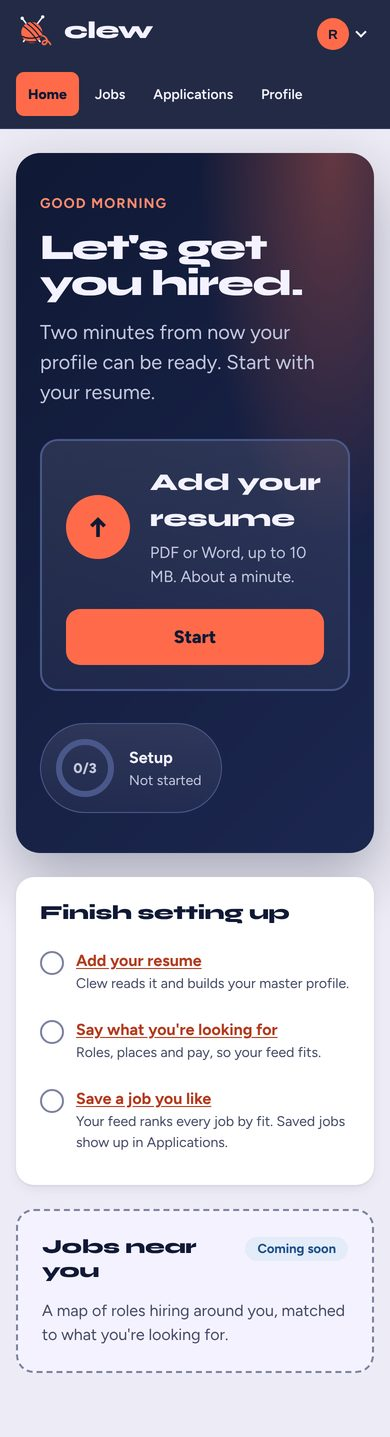
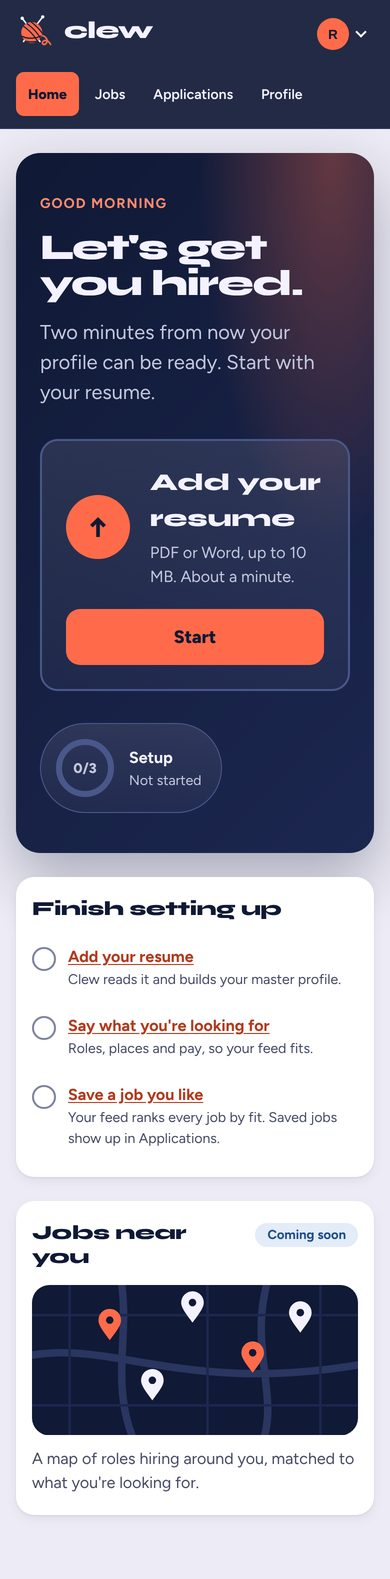
Home step 3: polish (motion, count-up, brand art, phone pass, benchmark notes)
Claude-Session: https://claude.ai/code/session_0174fyUSi87p2NdewUzstscb

diff --git a/apps/web/src/home/HomeDashboard.tsx b/apps/web/src/home/HomeDashboard.tsx
@@ -1,3 +1,4 @@
+import type { CSSProperties } from "react";
 import { Link } from "react-router";
 
 import { COLUMNS } from "../applications/model";
@@ -13,6 +14,8 @@ import {
   type FeedJob,
   type Progress,
 } from "./model";
+import { MapArt, YarnArt } from "./BrandArt";
+import { useCountUp } from "./useCountUp";
 import type { Dashboard } from "./useDashboard";
 
 /** A ring that shows how many setup steps are done. The text carries the meaning. */
@@ -20,7 +23,8 @@ function ProgressRing({ done, total }: { done: number; total: number }) {
   const radius = 26;
   const circumference = 2 * Math.PI * radius;
   return (
-    <div className="ring">
+    // --ring-full lets the fill animate in from empty (CSS; off under reduced motion).
+    <div className="ring" style={{ "--ring-full": `${circumference}` } as CSSProperties}>
       <svg width="64" height="64" viewBox="0 0 64 64" aria-hidden="true">
         <circle cx="32" cy="32" r={radius} className="ring-track" />
         <circle
@@ -97,10 +101,16 @@ function Hero({ data, progress, hour }: { data: Dashboard; progress: Progress; h
 }
 
 function Tile({ value, label, to }: { value: number; label: string; to: string }) {
+  const shown = useCountUp(value);
   return (
-    <Link to={to} className="stat-tile">
-      <span className="stat-value">{value}</span>
-      <span className="stat-label">{label}</span>
+    // The counting number is for the eye; screen readers get the final value from the label.
+    <Link to={to} className="stat-tile" aria-label={`${value} ${label}`}>
+      <span className="stat-value" aria-hidden="true">
+        {shown}
+      </span>
+      <span className="stat-label" aria-hidden="true">
+        {label}
+      </span>
     </Link>
   );
 }
@@ -147,12 +157,17 @@ function TopMatches({ jobs }: { jobs: NonNullable<Dashboard["jobs"]> }) {
     <section className="home-card" aria-labelledby="matches-title">
       <div className="home-card-head">
         <h2 id="matches-title">Top matches</h2>
-        <Link to="/jobs" className="home-card-link">
-          See all {jobs.total}
-        </Link>
+        {jobs.total > 0 && (
+          <Link to="/jobs" className="home-card-link">
+            See all {jobs.total}
+          </Link>
+        )}
       </div>
       {jobs.items.length === 0 ? (
-        <p className="home-empty">No matches yet. Jobs are fetched regularly, so check back soon.</p>
+        <div className="home-empty-art">
+          <YarnArt />
+          <p className="home-empty">No matches yet. New jobs come in every hour, so check back soon.</p>
+        </div>
       ) : (
         <ul className="match-list">
           {jobs.items.map((job) => (
@@ -208,7 +223,10 @@ function Pipeline({ apps }: { apps: NonNullable<Dashboard["apps"]> }) {
         </Link>
       </div>
       {total === 0 ? (
-        <p className="home-empty">Save a job from your feed and it shows up here.</p>
+        <div className="home-empty-art">
+          <YarnArt />
+          <p className="home-empty">Save a job from your feed and it shows up here.</p>
+        </div>
       ) : (
         <ul className="pipe-list">
           {COLUMNS.map((col) => (
@@ -234,6 +252,7 @@ function MapTeaser() {
         <h2 id="map-title">Jobs near you</h2>
         <span className="pill-soon">Coming soon</span>
       </div>
+      <MapArt />
       <p className="home-empty">
         A map of roles hiring around you, matched to what you're looking for.
       </p>

diff --git a/apps/web/src/styles.css b/apps/web/src/styles.css
@@ -1949,6 +1949,23 @@ input:focus-visible + .upload-choose,
   color: var(--clew-text-link);
   font-weight: var(--clew-font-weight-bold);
   font-size: var(--clew-font-size-sm);
+  white-space: nowrap;
+}
+
+/* Small phones: tighter cards and smaller card titles, so a title and its link share a line. */
+@media (max-width: 30rem) {
+  .home-card {
+    padding: var(--clew-space-5) var(--clew-space-4);
+  }
+
+  .home-card-head h2 {
+    font-size: var(--clew-font-size-xl);
+  }
+
+  .match-row {
+    gap: var(--clew-space-3);
+    padding: var(--clew-space-3) var(--clew-space-1);
+  }
 }
 
 .home-empty,
@@ -1999,6 +2016,60 @@ input:focus-visible + .upload-choose,
 
 .match-arrow {
   color: var(--clew-text-secondary);
+  transition: transform var(--clew-motion-duration-base) var(--clew-motion-easing);
+}
+
+.match-row:hover .match-arrow,
+.match-row:focus-visible .match-arrow {
+  transform: translateX(4px);
+  color: var(--clew-text-accent);
+}
+
+/* --- Home motion. The global reduced-motion rule in base.css switches all of it off. --- */
+
+@keyframes home-rise {
+  from {
+    opacity: 0;
+    transform: translateY(12px);
+  }
+}
+
+.home-grid > :not(.home-columns),
+.home-columns .home-card {
+  animation: home-rise 480ms var(--clew-motion-easing) both;
+}
+
+.home-grid > :nth-child(2) {
+  animation-delay: 60ms;
+}
+
+.home-columns .home-col:first-child .home-card {
+  animation-delay: 120ms;
+}
+
+.home-columns .home-col:last-child .home-card {
+  animation-delay: 180ms;
+}
+
+@keyframes ring-in {
+  from {
+    stroke-dashoffset: var(--ring-full);
+  }
+}
+
+.ring-fill {
+  animation: ring-in 900ms var(--clew-motion-easing) 200ms both;
+}
+
+@keyframes bar-in {
+  from {
+    transform: scaleX(0);
+  }
+}
+
+.pipe-bar > span {
+  transform-origin: left;
+  animation: bar-in 700ms var(--clew-motion-easing) 240ms both;
 }
 
 .check-list li {
@@ -2076,9 +2147,24 @@ input:focus-visible + .upload-choose,
 }
 
 .home-map-teaser {
-  background: var(--clew-bg-subtle);
-  border: 2px dashed var(--clew-border-control);
-  box-shadow: none;
+  background: var(--clew-bg-surface);
+}
+
+.map-art {
+  display: block;
+  width: 100%;
+  height: auto;
+  margin-bottom: var(--clew-space-3);
+}
+
+.home-empty-art {
+  display: flex;
+  align-items: center;
+  gap: var(--clew-space-4);
+}
+
+.brand-art {
+  flex: none;
 }
 
 .pill-soon {

diff --git a/apps/web/src/home/BrandArt.tsx b/apps/web/src/home/BrandArt.tsx
@@ -1,0 +1,57 @@
+/** Small decorative drawings in the Clew style. All are hidden from screen readers. */
+
+/** A coral yarn ball with a loose curly thread, for empty states. */
+export function YarnArt({ size = 72 }: { size?: number }) {
+  return (
+    <svg className="brand-art" width={size} height={size} viewBox="0 0 72 72" aria-hidden="true">
+      <circle cx="30" cy="34" r="20" fill="var(--clew-color-coral-500)" />
+      <g fill="none" stroke="var(--clew-color-coral-700)" strokeWidth="2" strokeLinecap="round">
+        <path d="M14 26c8 4 22 4 32-4" />
+        <path d="M12 36c10 6 26 6 36-2" />
+        <path d="M16 46c8 4 20 4 28-2" />
+        <path d="M24 15c-4 10-4 28 2 38" />
+      </g>
+      <path
+        d="M49 42c6 2 10 7 8 12s-8 4-8 0 6-6 10-4 6 6 5 10"
+        fill="none"
+        stroke="var(--clew-color-coral-500)"
+        strokeWidth="2.5"
+        strokeLinecap="round"
+      />
+    </svg>
+  );
+}
+
+const PINS: [number, number, boolean][] = [
+  [62, 44, true],
+  [128, 30, false],
+  [176, 70, true],
+  [96, 92, false],
+  [214, 38, false],
+];
+
+/** A stylized street map with job pins, for the map teaser. Not a real place. */
+export function MapArt() {
+  return (
+    <svg className="brand-art map-art" viewBox="0 0 260 120" aria-hidden="true">
+      <rect width="260" height="120" rx="14" fill="var(--clew-color-ink-900)" />
+      <g stroke="var(--clew-color-ink-700)" strokeWidth="6" strokeLinecap="round" fill="none">
+        <path d="M-10 58C60 40 120 90 270 62" />
+        <path d="M70 -10C80 40 60 80 84 130" />
+        <path d="M190 -10C170 50 200 90 182 130" />
+      </g>
+      <g stroke="var(--clew-color-ink-800)" strokeWidth="2" fill="none">
+        <path d="M0 24H260M0 96H260M30 0V120M140 0V120M230 0V120" />
+      </g>
+      {PINS.map(([x, y, top]) => (
+        <g key={`${x}-${y}`} transform={`translate(${x} ${y})`}>
+          <path
+            d="M0 0c-6-8-9-12-9-16a9 9 0 0 1 18 0c0 4-3 8-9 16z"
+            fill={top ? "var(--clew-color-coral-500)" : "var(--clew-color-ink-50)"}
+          />
+          <circle cy="-16" r="3" fill="var(--clew-color-ink-900)" />
+        </g>
+      ))}
+    </svg>
+  );
+}

diff --git a/apps/web/src/home/HomeDashboard.test.tsx b/apps/web/src/home/HomeDashboard.test.tsx
@@ -1,4 +1,4 @@
-import { render, screen, within } from "@testing-library/react";
+import { render, screen, waitFor, within } from "@testing-library/react";
 import { MemoryRouter } from "react-router";
 import { describe, expect, it } from "vitest";
 
@@ -77,8 +77,8 @@ describe("HomeDashboard", () => {
   it("shows the stat tiles from the matches and the tracker", () => {
     renderHome(base);
     const stats = screen.getByRole("region", { name: "Your numbers" });
-    expect(within(stats).getByText("Jobs matching you").previousSibling).toHaveTextContent("12");
-    expect(within(stats).getByText("Interviews").previousSibling).toHaveTextContent("1");
+    expect(within(stats).getByRole("link", { name: "12 Jobs matching you" })).toBeInTheDocument();
+    expect(within(stats).getByRole("link", { name: "1 Interviews" })).toBeInTheDocument();
   });
 
   it("says so when matches could not load, and still shows the rest", () => {
@@ -105,5 +105,18 @@ describe("HomeDashboard", () => {
   it("is honest that the map is not built yet", () => {
     renderHome(base);
     expect(screen.getByRole("region", { name: "Jobs near you" })).toHaveTextContent("Coming soon");
+  });
+});
+
+describe("polish", () => {
+  it("counts the numbers up, and lands on the real value", async () => {
+    renderHome(base);
+    const tile = screen.getByRole("link", { name: "12 Jobs matching you" });
+    await waitFor(() => expect(tile).toHaveTextContent("12Jobs matching you"));
+  });
+
+  it("shows the yarn art and a hint when there are no matches yet", () => {
+    renderHome({ ...base, jobs: { items: [], total: 0 } });
+    expect(screen.getByText(/no matches yet/i)).toBeInTheDocument();
   });
 });

diff --git a/apps/web/src/home/useCountUp.ts b/apps/web/src/home/useCountUp.ts
@@ -1,0 +1,30 @@
+import { useEffect, useState } from "react";
+
+import { useMediaQuery } from "../components/useMediaQuery";
+
+const DURATION_MS = 700;
+
+/**
+ * Counts from 0 up to `target` once, easing out. Shows the target straight away when the user
+ * prefers reduced motion or the browser can't animate.
+ */
+export function useCountUp(target: number): number {
+  const reduced = useMediaQuery("(prefers-reduced-motion: reduce)");
+  const animate = !reduced && typeof requestAnimationFrame === "function" && target > 0;
+  const [shown, setShown] = useState(animate ? 0 : target);
+
+  useEffect(() => {
+    if (!animate) return;
+    let frame = 0;
+    const start = performance.now();
+    const tick = (now: number) => {
+      const t = Math.min(1, (now - start) / DURATION_MS);
+      setShown(Math.round(target * (1 - (1 - t) ** 3)));
+      if (t < 1) frame = requestAnimationFrame(tick);
+    };
+    frame = requestAnimationFrame(tick);
+    return () => cancelAnimationFrame(frame);
+  }, [animate, target]);
+
+  return animate ? shown : target;
+}

diff --git a/docs/design/home-benchmarks.md b/docs/design/home-benchmarks.md
@@ -1,0 +1,25 @@
+# Home: how it compares
+
+Step 3 of #119. These notes compare the signed-in Home with four dashboards people already like. They come from public product pages and general knowledge of each product, not from a formal study.
+
+| | Linear | Notion | Teal | Huntr | Clew Home |
+| --- | --- | --- | --- | --- | --- |
+| Greets you and says what matters today | Inbox count | Plain greeting | Yes | No | Greeting plus a status line ("1 interview in play") |
+| Numbers at a glance | Cycle stats | No | Job tracker counts | Board counts | Four tiles that count up and link to the right page |
+| Next best action | Triage | No | Checklist | No | Setup checklist with a progress ring, then top matches |
+| Ranked jobs on the first screen | n/a | n/a | No, you search | No, you add | Top 4 matches by fit, with pay |
+| Pipeline overview | n/a | n/a | Kanban | Kanban | Bar per stage, links to the board |
+| Motion | Subtle | Little | Little | Little | Rise-in, ring fill, count-up, arrow nudge. All off under reduced motion |
+| Empty states | Illustrated | Plain text | Plain text | Illustrated | Yarn art and one clear next step |
+
+## Where we match or beat them
+
+- **Fit first.** Teal and Huntr track jobs you bring in. Clew shows ranked matches as soon as you sign in.
+- **One headline that changes with you.** New users get "Let's get you hired" and a large resume button. Returning users get their name and the most important fact about their search.
+- **Calm motion.** It's in the range of Linear's: short, eased, and never in the way.
+
+## Where we're behind (later work)
+
+- No daily digest or "new since your last visit" yet (phase 5 in `todo.md`).
+- No customizable layout like Notion's. Not planned for the MVP.
+- The jobs map is still a teaser (steps 4 and 5 of #119).

diff --git a/todo.md b/todo.md
@@ -43,11 +43,13 @@ Status: built, not yet looked at in a browser. Needs a visual pass with real Cle
 
 ## Phase 3: Polish
 
-- [ ] Micro-interactions: card hover lift, progress ring animation, count-up on stat tiles (all off under reduced motion).
-- [ ] Illustrations/empty-state art in brand style (needles, yarn, maze motif from `MazeArt`).
-- [ ] Dark-hero and light-section contrast check; keyboard focus order; screen-reader landmarks and headings.
-- [ ] Phone layout pass at 360px and 390px widths.
-- [ ] Compare against 3 or 4 best-in-class dashboards (Linear, Notion, Teal, Huntr) and note what we match or beat.
+Status: done. Notes are in `docs/design/home-benchmarks.md`.
+
+- [x] Micro-interactions: card hover lift, progress ring animation, count-up on stat tiles (all off under reduced motion).
+- [x] Illustrations/empty-state art in brand style (needles, yarn, maze motif from `MazeArt`).
+- [x] Dark-hero and light-section contrast check; keyboard focus order; screen-reader landmarks and headings.
+- [x] Phone layout pass at 360px and 390px widths.
+- [x] Compare against 3 or 4 best-in-class dashboards (Linear, Notion, Teal, Huntr) and note what we match or beat.
 
 ## Phase 4: Jobs map (the big feature)
 
